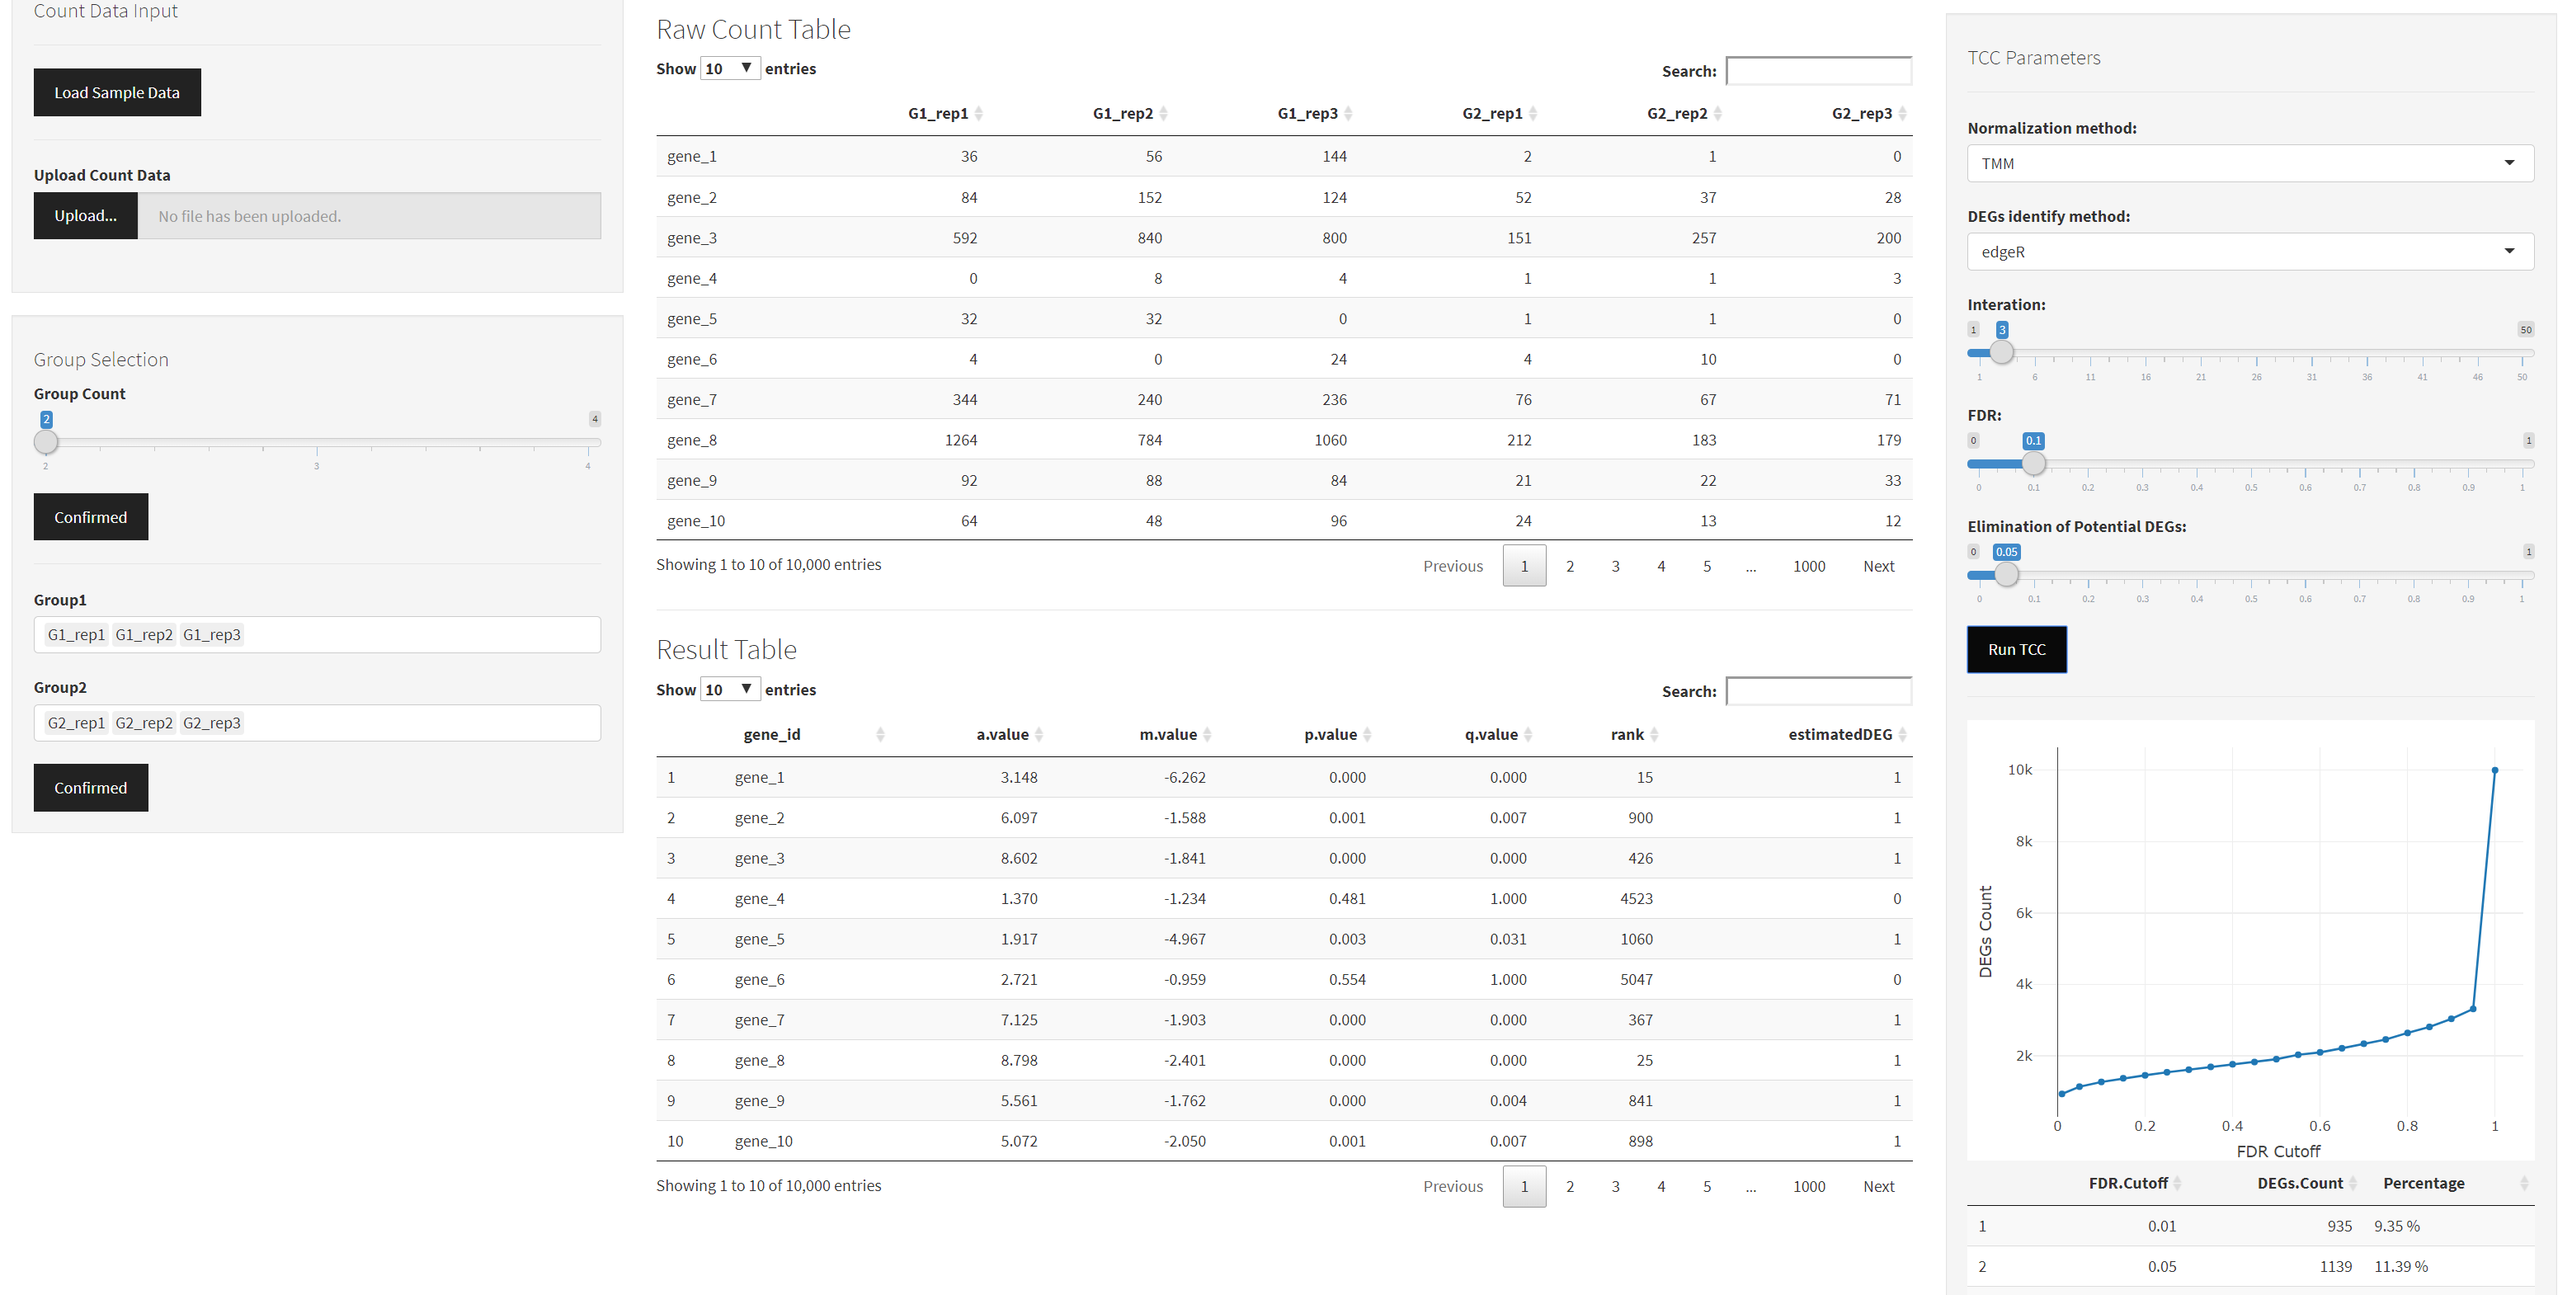
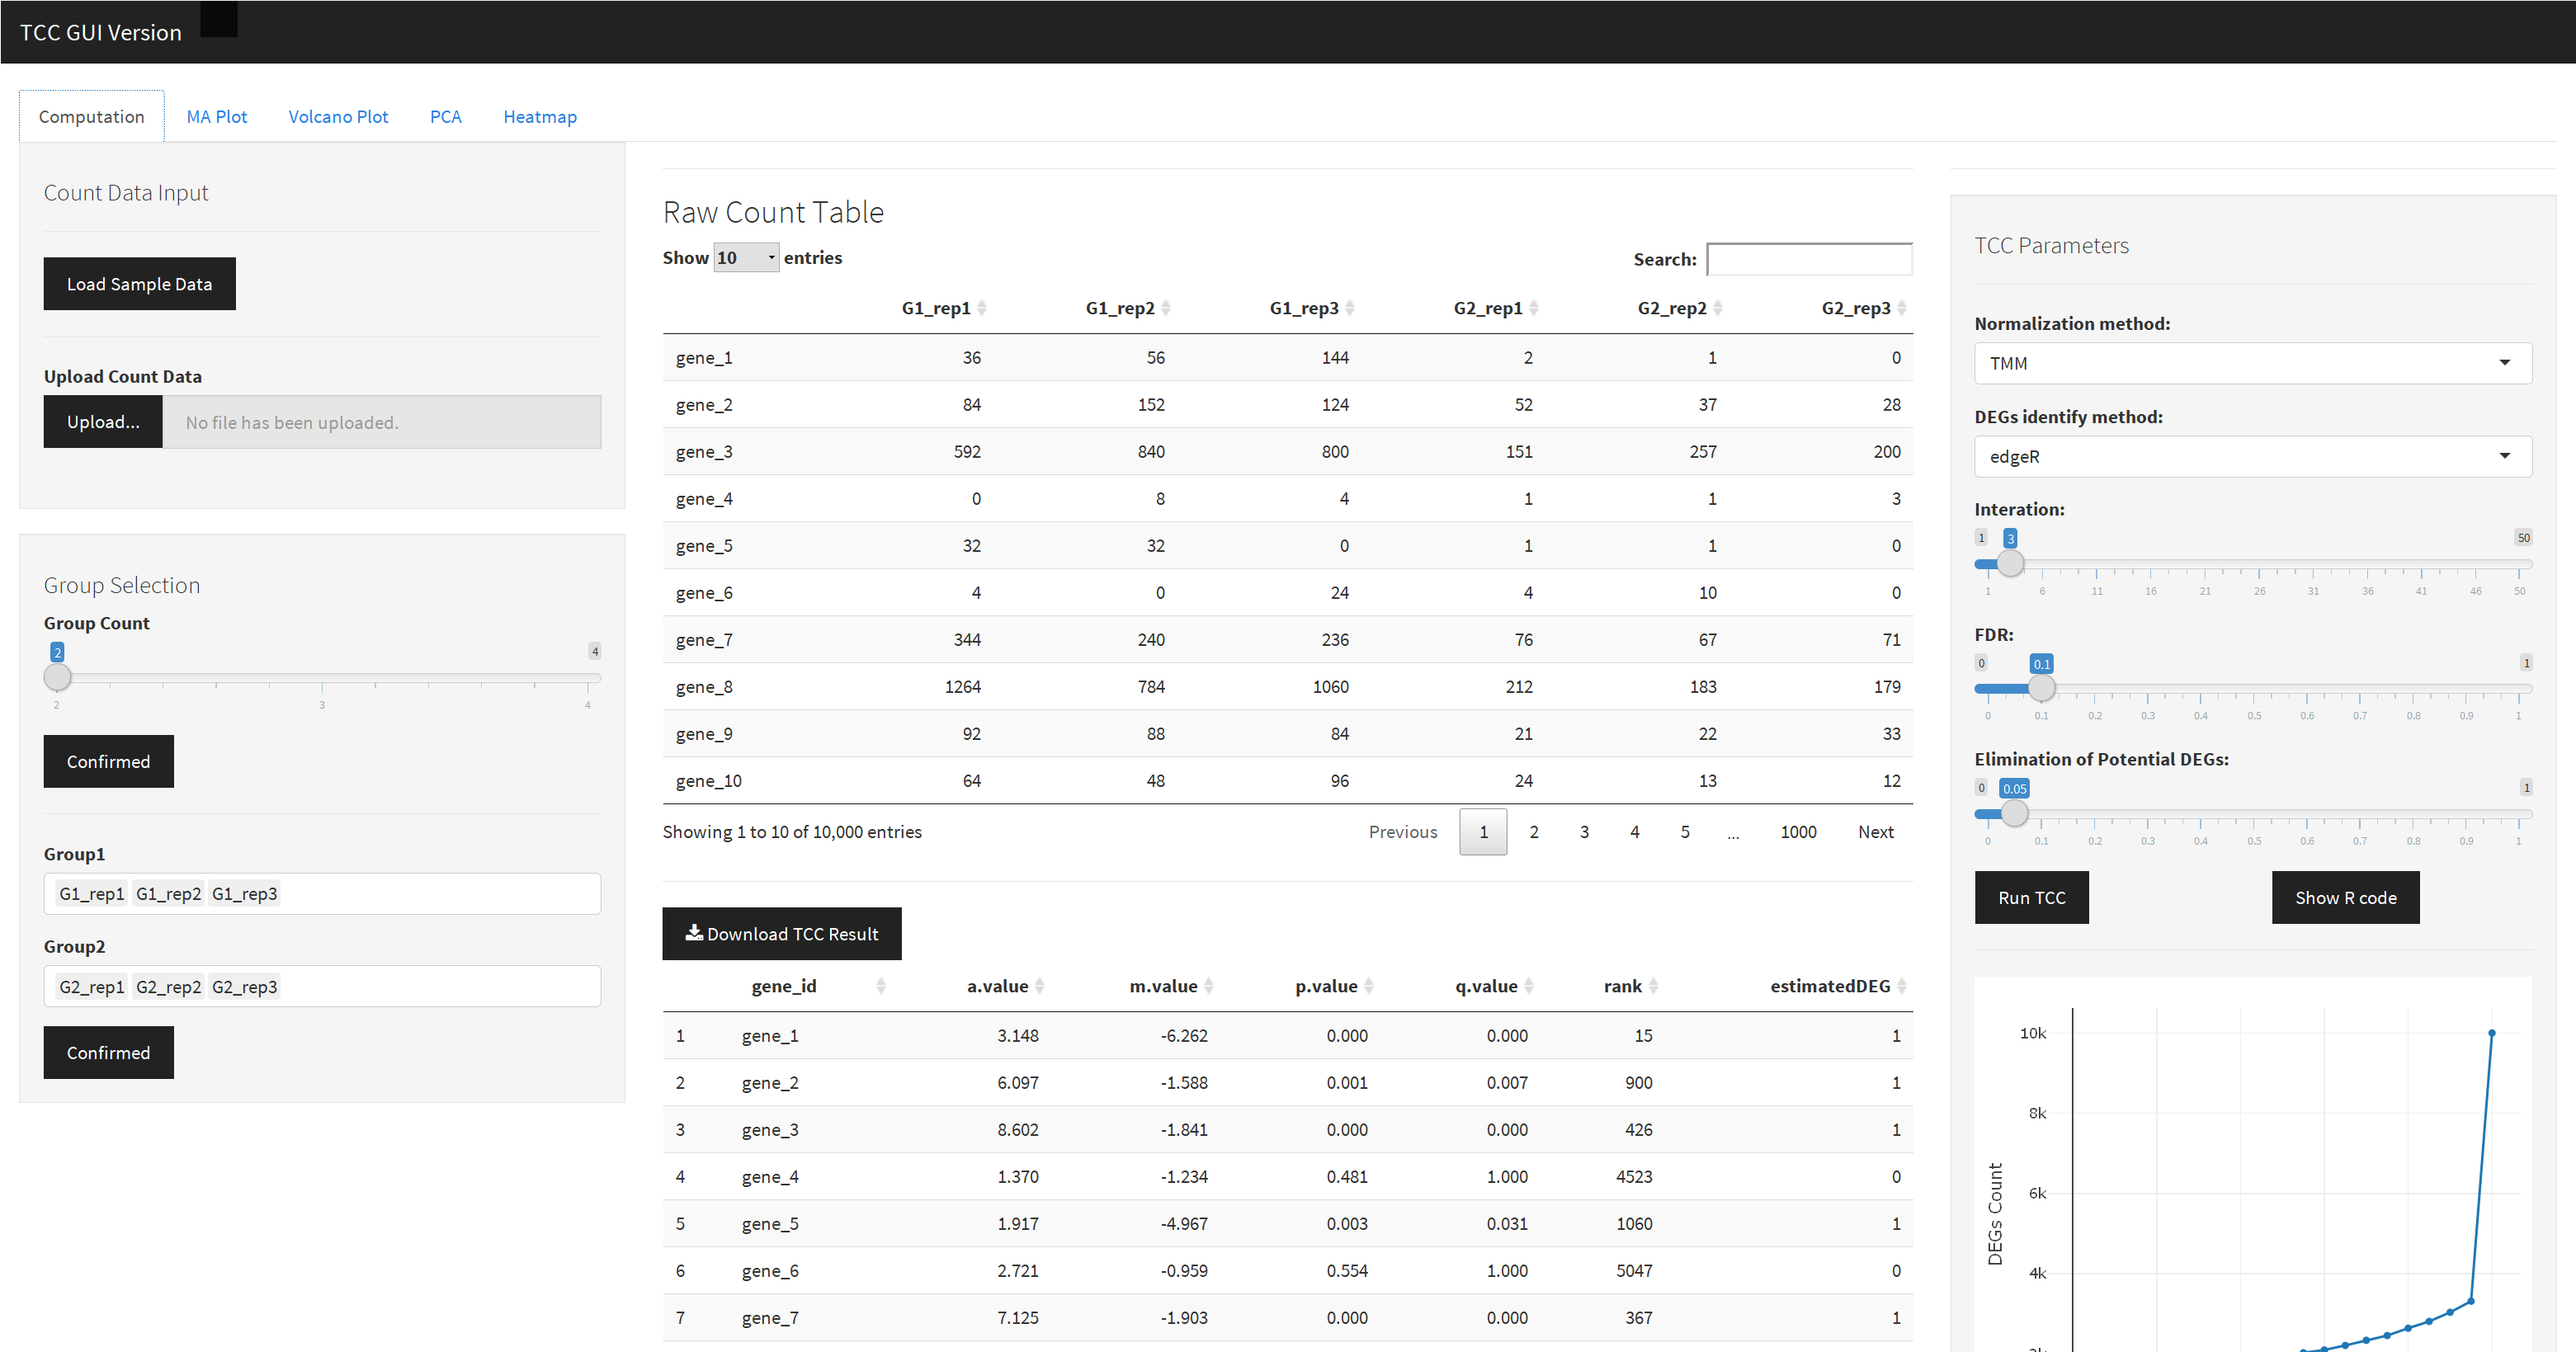
Add Heatmap

diff --git a/README.md b/README.md
@@ -5,3 +5,9 @@
 ![Data input Page](https://github.com/swsoyee/TCC-GUI/blob/master/ScreenShot/DataInput.png)
 
 ![MA Plot Page](https://github.com/swsoyee/TCC-GUI/blob/master/ScreenShot/MAPlot.png)
+
+![Volcano Plot Page](https://github.com/swsoyee/TCC-GUI/blob/master/ScreenShot/VolcanoPlot.png)
+
+![PCA](https://github.com/swsoyee/TCC-GUI/blob/master/ScreenShot/PCA.png)
+
+![Heatmap](https://github.com/swsoyee/TCC-GUI/blob/master/ScreenShot/Heatmap.png)
